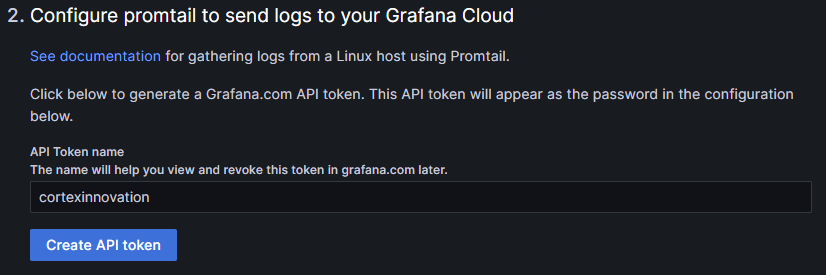
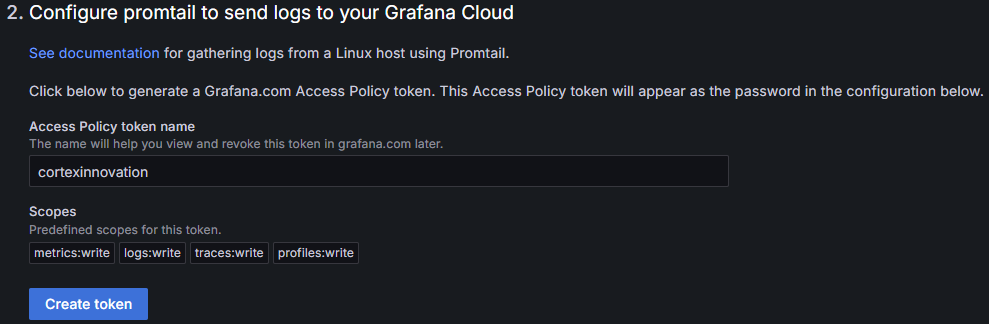
Modified Observability instructions to reflect upgraded components

diff --git a/content/en/docs/2024.5/getting-started/on-premise/add-observability-to-innovation/Grafana/setup-grafana.md b/content/en/docs/2024.5/getting-started/on-premise/add-observability-to-innovation/Grafana/setup-grafana.md
@@ -14,19 +14,19 @@ Please ensure that the Installations for [Grafana][] and [Loki][] have been comp
 ## Configure Loki Data Source in Grafana
 
 1. Log in to your configured Grafana instance with a user that has the *admin* role.
-1. In Grafana, go to *Configuration* > *Data Sources* via the cog icon on the left sidebar.
-1. Click the big *Add data source* button.
-1. Choose *Loki* from the list.
+1. In Grafana, go to *Connections* > *Data Sources* via the menu on the left sidebar.
+1. Click the *+ Add new data source* button.
+1. Choose *Loki* from the *Logging & document databases* section of the list.
 1. Configure the data source as follows:
 
     | Option  | Description | Value |
     |---------|-------------|---------|
     | Name    | The name of the data source to use in Grafana | `Cortex Loki` |
     | URL     | The address of your Grafana Loki Server | `http://localhost:3100` |
-    | Timeout | The HTTP request timeout in seconds set to the same value as configured in the Grafana Loki `loki-local-config.yaml` configuration file located alongside the Grafana Loki `loki-windows-amd64.exe` file. | `600` |
+    | Timeout | The HTTP request timeout in seconds set to the same value as configured in the Grafana Loki `loki-local-config.yaml` configuration file as `query_timeout` in the `limits_config` configuration section, located alongside the Grafana Loki `loki-windows-amd64.exe` file. | `600` |
 
 1. Click *Save and Test*.
-1. *Data source connected and labels found.* message should be displayed above the *Save and Test*
+1. *Data source successfully connected.* message should be displayed above the *Save and Test*
 
 ## Download the {{% ctx %}} Innovation Default Dashboards
 
@@ -36,18 +36,17 @@ Please ensure that the Installations for [Grafana][] and [Loki][] have been comp
 ## Create Folder for Dashboards
 
 1. Log in to your configured Grafana with a user that has the *Admin* role.
-1. To create a folder, click the + icon in the side menu, and then click *Folder*.
+1. In Grafana, go to *Dashboards* via the menu on the left sidebar.
+1. Click the *New* button and select *New folder* from the drop-down menu.
 1. Enter a folder name, e.g. `Cortex`.
 1. Click *Create*.
 
 ## Import Dashboards
 
 1. Log in to your configured Grafana with a user that has the *Admin* role.
-1. To import a dashboard, click the + icon in the side menu, and then click *Import*.
+1. Go to *Dashboards* via the menu on the left sidebar.
+1. Click the *New* button and select *Import* from the drop-down menu.
 1. Click the *Upload JSON file* button.
-
-    {{% alert type="note" title="Note" %}}This button is broken in the Grafana 8.5.3 version and it may be necessary to use your keyboard's *tab* button until the *Upload JSON file* button is highlighted and press *Enter*.{{% /alert %}}
-
 1. Locate the `Flow Execution Requests.json` file extracted from the downloaded `Grafana.Dashboards.zip`.
 1. Select the file and click *Open*.
 1. Select the folder in Grafana you wish the dashboard to be saved in, e.g. *Cortex*.
@@ -63,15 +62,15 @@ To do this, follow these steps for all default {{% ctx %}} Innovation dashboards
 
 1. Log in to your configured Grafana with a user that has the *Admin* role.
 1. To open a dashboard:
-    1. Click the Dashboards icon {{< image src="/images/DashboardsIcon.png" title="Dashboards Icon" >}} in the side menu, and then click *Browse*.
+    1. Go to *Dashboards* via the menu on the left sidebar.
     1. Click the folder name that the dashboards were imported to.
     1. Click the *Flow Execution Requests* dashboard to open it.
-1. Open the Dashboard Settings menu via the cog icon in the top right-hand side of the dashboard.
-1. Click *Variables* on the left-hand side of the page.
-1. Click *Custom Filter* at the bottom of the *Variables* list.
-1. Select your configured Loki data source in the *Options* > *Data source* drop-down menu.
-1. Click *Update*.
-1. Click the back button on the top left corner of the page to go back to the dashboard.
+1. Open the *Dashboard settings* menu via the cog icon in the top right-hand side of the dashboard.
+1. Click *Variables* from the top menu of the *Settings* page.
+1. Click *CustomFilter* at the bottom of the *Variables* list.
+1. Select your configured Loki data source in the *Ad-hoc options* > *Data source* drop-down menu.
+1. Click *Apply*.
+1. Click the dashboard name in the breadcrumb at the top left corner of the page to go back to the dashboard.
 1. Click the + icon next to the Custom Filter to confirm that a list of available filter options is visible.
 1. Repeat steps 2 - 9 for the *Platform Health* dashboard.
 

diff --git a/content/en/docs/2024.5/getting-started/cloud/add-observability-to-innovation/Grafana/import-dashboards.md b/content/en/docs/2024.5/getting-started/cloud/add-observability-to-innovation/Grafana/import-dashboards.md
@@ -20,7 +20,7 @@ Please ensure that the set up for [Grafana][] and [Loki][] have been completed b
 
 1. Log in to Grafana Cloud with a user that has the *Admin* role.
 1. Click the Menu icon {{< image src="/images/GrafanaMenuIcon.png" title="Menu icon" >}} to view the available options.
-1. Click the Dashboards menu item {{< image src="/images/Grafana Cloud - Dashboards Link.png" title="Dashboards menu item" >}}.
+1. Click the Dashboards menu item.
 1. Click the *New* dropdown and select *New folder*.
 1. Enter a folder name, e.g. `Cortex`.
 1. Click *Create*.
@@ -29,13 +29,13 @@ Please ensure that the set up for [Grafana][] and [Loki][] have been completed b
 
 1. Log in to Grafana Cloud with a user that has the *Admin* role.
 1. Click the Menu icon {{< image src="/images/GrafanaMenuIcon.png" title="Menu icon" >}} to view the available options.
-1. Click the Dashboards menu item {{< image src="/images/Grafana Cloud - Dashboards Link.png" title="Dashboards menu item" >}}.
+1. Click the Dashboards menu item.
 1. Click the *New* dropdown and select *Import*.
 1. Click on *Upload dashboard JSON file*.
 1. Locate the `Flow Execution Requests.json` file extracted from the downloaded `Grafana.Dashboards.zip`.
 1. Select the file and click *Open*.
 1. Select the folder in Grafana you wish the dashboard to be saved in, e.g. *Cortex*.
-1. Select your [configured] Loki data source from the dropdown menu, e.g. *grafanacloud-cortexinnovation-logs*.
+1. Select your [configured Loki data source] Loki data source from the dropdown menu, e.g. *grafanacloud-cortexinnovation-logs*.
 1. Click *Import*.
 1. Repeat steps 2 - 10 for the `Platform Health.json` file.
 
@@ -48,13 +48,13 @@ To do this, follow these steps for all default {{% ctx %}} Innovation dashboards
 1. Log in to Grafana Cloud with a user that has the *Admin* role.
 1. To open a dashboard:
     1. Click the Menu icon {{< image src="/images/GrafanaMenuIcon.png" title="Menu icon" >}} to view the available options.
-    1. Click the Dashboards menu item {{< image src="/images/Grafana Cloud - Dashboards Link.png" title="Dashboards menu item" >}}.
+    1. Click the Dashboards menu item.
     1. Click the folder name that the dashboards were imported to.
     1. Click the first dashboard to open.
-1. Open the Dashboard Settings menu via the cog icon next to the time range filter on the dashboard.
-1. Click *Variables* on the left-hand side of the page.
-1. Click *Custom Filter* in the *Variables* list.
-1. Select your [configured] Loki data source in the *Adhoc Options* > *Data source* drop-down menu, e.g. *grafanacloud-cortexinnovation-logs*.
+1. Open the *Dashboard settings* menu via the cog icon in the top right-hand side of the dashboard.
+1. Click *Variables* from the top menu of the *Settings* page.
+1. Click *CustomFilter* in the *Variables* list.
+1. Select your [configured Loki data source][] in the *Adhoc Options* > *Data source* drop-down menu, e.g. *grafanacloud-cortexinnovation-logs*.
 1. Click *Apply*.
 1. Click the dashboard name in the breadcrumb at the top left corner of the page to go back to the dashboard.
 1. Click the + icon next to the Custom Filter to confirm that a list of available filter options is visible. If Grafana Loki has not received any logs from Promtail there will be no options available for selection.
@@ -64,8 +64,8 @@ To do this, follow these steps for all default {{% ctx %}} Innovation dashboards
 
 1. [Try it Out][]
 
-[configured]: {{< url path="Cortex.GettingStarted.Cloud.AddObservabilityToInnovation.Grafana.SetupLoki.MainDoc" >}}
-[Grafana.Dashboards.zip]: {{< url path="GitHub.Cortex.Observability.2.2.0.GrafanaDashboardsZip" >}}
+[configured Loki data source]: {{< url path="Cortex.GettingStarted.Cloud.AddObservabilityToInnovation.Grafana.SetupLoki.MainDoc" >}}
 [Grafana]: {{< url path="Cortex.GettingStarted.Cloud.AddObservabilityToInnovation.Grafana.SetupGrafana.MainDoc" >}}
+[Grafana.Dashboards.zip]: {{< url path="GitHub.Cortex.Observability.2.2.0.GrafanaDashboardsZip" >}}
 [Loki]: {{< url path="Cortex.GettingStarted.Cloud.AddObservabilityToInnovation.Grafana.SetupLoki.MainDoc" >}}
 [Try it Out]: {{< url path="Cortex.GettingStarted.Cloud.AddObservabilityToInnovation.Grafana.TryItOut.MainDoc" >}}

diff --git a/content/en/docs/2024.5/getting-started/on-premise/add-observability-to-innovation/Grafana/prerequisites.md b/content/en/docs/2024.5/getting-started/on-premise/add-observability-to-innovation/Grafana/prerequisites.md
@@ -40,8 +40,8 @@ The application servers (as described in {{< ahref path="Cortex.GettingStarted.O
 
 | Server&nbsp;Role | Windows&nbsp;Server[^1] | IIS[^2] | Other&nbsp;Software |
 |------------------|-------------------------|---------|----------|
-| Web Application Server | [2022 (x64)][] *Recommended*<br>[2019 (x64)][] | 10.0.20348[^3]<br>10.0.17763[^4]<br>IIS Basic Authentication[^5]<br>[URL Rewrite module 2.1][] | [Grafana 8.5.4][] *Enterprise Edition*<br>[Grafana Loki 2.5.0][]|
-| Application Server | [2022 (x64)][] *Recommended*<br>[2019 (x64)][] | | [Promtail 2.5.0][]|
+| Web Application Server | [2022 (x64)][] *Recommended*<br>[2019 (x64)][] | 10.0.20348[^3]<br>10.0.17763[^4]<br>IIS Basic Authentication[^5]<br>[URL Rewrite module 2.1][] | [Grafana 10.4.1][] *Enterprise Edition*<br>[Grafana Loki 3.0.0][]|
+| Application Server | [2022 (x64)][] *Recommended*<br>[2019 (x64)][] | | [Promtail 3.0.0][]|
 
 [^1]: Windows Server Standard and Datacenter editions are supported. Filesystem **must be NTFS** and networking **must use IPv4**. Linux is not supported, but may be in the future.
 [^2]: IIS is supported; other web servers, including IIS Express are not supported.
@@ -158,13 +158,13 @@ A domain user which is a member of the Local Administrators group on all Applica
 [configuring Grafana to use HTTPS]: {{< url path="Cortex.GettingStarted.OnPremise.AddObservabilityToInnovation.Grafana.InstallGrafana.ConfigureHTTPS" >}}
 [Create Self-Signed Certificates]: {{< url path="Cortex.GettingStarted.OnPremise.AddObservabilityToInnovation.Grafana.Advanced.CreateSelfSignedCertificates" >}}
 [Make Installation Artefacts Available]:  {{< url path="Cortex.GettingStarted.OnPremise.InstallInnovationOnly.MultipleServerWithHA.MakeInstallationArtefactsAvailable" >}}
-[Grafana 8.5.4]: {{< url path="Grafana.SelfManaged.Downloads.GrafanaWebApp.Windows" >}}
-[Grafana Loki 2.5.0]: {{< url path="Grafana.SelfManaged.Downloads.GrafanaLoki.GrafanaLokiInstallZip" >}}
+[Grafana 10.4.1]: {{< url path="Grafana.SelfManaged.Downloads.GrafanaWebApp.10.4.1.Windows" >}}
+[Grafana Loki 3.0.0]: {{< url path="Grafana.SelfManaged.Downloads.GrafanaLoki.3.0.0.GrafanaLokiInstallZip" >}}
 [Install Grafana]: {{< url path="Cortex.GettingStarted.OnPremise.AddObservabilityToInnovation.Grafana.InstallGrafana.MainDoc" >}}
 [Install IIS Basic Authentication]: {{< url path="Cortex.GettingStarted.OnPremise.AddObservabilityToInnovation.Grafana.InstallLoki.InstallIISBasicAuthentication" >}}
 [installation]: {{< url path="Cortex.GettingStarted.OnPremise.AddObservabilityToInnovation.Grafana.InstallLoki.InstallCertificate" >}}
 [Let’s Encrypt]: {{< url path="LetsEncrypt.MainDoc" >}}
-[Promtail 2.5.0]:  {{< url path="Grafana.SelfManaged.Downloads.Promtail.PromtailInstallZip" >}}
+[Promtail 3.0.0]:  {{< url path="Grafana.SelfManaged.Downloads.Promtail.3.0.0.PromtailInstallZip" >}}
 [SSL Best Practices]: {{< url path="Cortex.GettingStarted.OnPremise.AddObservabilityToInnovation.Grafana.Advanced.SSLBestPractices" >}}
 [URL Rewrite module 2.1]: {{< url path="IIS.Downloads.UrlRewrite-2_1" >}}
 [Port Requirements]: {{< url path="Cortex.GettingStarted.OnPremise.AddObservabilityToInnovation.Grafana.Advanced.PortRequirements" >}}

diff --git a/content/en/docs/2024.5/getting-started/on-premise/add-observability-to-innovation/Grafana/try-it-out.md b/content/en/docs/2024.5/getting-started/on-premise/add-observability-to-innovation/Grafana/try-it-out.md
@@ -27,14 +27,14 @@ This test uses the test flow published as part of testing the Innovation install
     {{% alert title="Note" %}} If you used self-signed certificates when installing the Application Servers you may need to disable SSL certificate validation in your HTTP client. {{% /alert %}}
 
 1. Once the request has completed, using a web browser, log in to your configured Grafana.
-1. Click the Dashboards icon {{< image src="/images/DashboardsIcon.png" title="Dashboards Icon" >}} in the side menu, and then click *Browse*.
+1. Open the *Dashboards* page via the menu on the left sidebar.
 1. Click the folder name that the dashboards were imported to.
 1. Click the *Flow Execution Requests* dashboard to open it.
 1. The request made at step 1 should be visible on the dashboard.
 {{% alert title="Note" %}}
 If other requests have been made then there may be more than one request visible on the dashboard.
 {{% / alert %}}
-1. Click the Dashboards icon {{< image src="/images/DashboardsIcon.png" title="Dashboards Icon" >}} in the side menu, and then click *Browse*.
+1. Open the *Dashboards* page via the menu on the left sidebar.
 1. Click the folder name that the dashboards were imported to.
 1. Click the *Platform Health* dashboard to open it.
 1. The request made at step 1 should be visible on the dashboard.
@@ -42,6 +42,6 @@ If other requests have been made then there may be more than one request visible
 If other requests have been made then there may be more than one request visible on the dashboard.
 {{% / alert %}}
 
-[Postman]: {{< url path="Postman.Downloads.MainDoc" >}}
 [HA Installation script configuration]: {{< url path="Cortex.GettingStarted.OnPremise.InstallInnovationOnly.MultipleServerWithHA.ConfigureInstallationScript" >}}
 [Non-HA Installation script configuration]: {{< url path="Cortex.GettingStarted.OnPremise.InstallInnovationOnly.SingleServerWithoutHA.ConfigureInstallationScript" >}}
+[Postman]: {{< url path="Postman.Downloads.MainDoc" >}}

diff --git a/content/en/docs/2024.5/Reference/observability/grafana/advanced-setup/configuring-thresholds.md b/content/en/docs/2024.5/Reference/observability/grafana/advanced-setup/configuring-thresholds.md
@@ -13,13 +13,13 @@ This section explains how to change the colour coding of thresholds set for the 
 
 1. Log in to your configured Grafana with a user that has the *Admin* role.
 1. To open a dashboard:
-    1. Click the Dashboards icon {{< image src="/images/DashboardsIcon.png" title="Dashboards Icon" >}} in the side menu, and then click *Browse*.
+    1. Open the *Dashboards* page via the menu on the left sidebar.
     1. Click the folder name that the dashboards were imported to.
     1. Click the name of the dashboard you wish to modify to open it.
 1. Open the panel you wish to configure in edit mode:
     1. Click the title of the panel to display a drop-down menu.
     1. Click *Edit*.
-1. On the Edit Panel page, on the right-hand side, scroll down through the list of options until you reach the Thresholds section.
+1. On the *Edit Panel* page, on the right-hand side, scroll down through the list of options until you reach the Thresholds section.
     1. You can change the value configured for the colours defined if the thresholds should be different to the default set for that panel.  
     1. You can change the colours defined for the thresholds to be different to the default set for that panel.  
     1. You can add additional threshold levels by clicking *+ add threshold* and configuring the colours and numbers appropriately. E.g. on the [Total Requests Errored][] panel on the [Flow Execution Requests][] dashboard, you may wish to add a warning threshold level to be >= 1 errors and change the critical threshold to be >= 10.  For this you should add a threshold and set the colour to your preferred colour, set the value to 1 and change the value for red to be 10.

diff --git a/content/en/docs/2024.5/getting-started/on-premise/add-observability-to-innovation/Grafana/install-promtail/install-promtail.md b/content/en/docs/2024.5/getting-started/on-premise/add-observability-to-innovation/Grafana/install-promtail/install-promtail.md
@@ -11,7 +11,7 @@ This guide describes how to install Promtail on the Application Server(s). Pleas
 
 ## Install Promtail
 
-1. Download [Promtail 2.5.0][] archive.
+1. Download [Promtail 3.0.0][] archive.
 1. Extract content of the downloaded archive to a suitable location, e.g. `C:\Promtail`.
 1. Download the [Promtail Install.zip][] archive and extract its contents alongside the previously extracted Promtail `promtail-windows-amd64.exe`.
 This archive contains the `promtail-local-config.yaml` configuration file, [NSSM][] (the Non-Sucking Service Manager program) and PowerShell scripts to help manage Promtail as a Windows service.
@@ -26,6 +26,6 @@ This archive contains the `promtail-local-config.yaml` configuration file, [NSSM
 [Configure Promtail]: {{< url path="Cortex.GettingStarted.OnPremise.AddObservabilityToInnovation.Grafana.InstallPromtail.ConfigurePromtail" >}}
 [NSSM]: {{< url path="NSSM.MainDoc" >}}
 [Prerequisites]: {{< url path="Cortex.GettingStarted.OnPremise.AddObservabilityToInnovation.Grafana.Prerequisites" >}}
-[Promtail 2.5.0]:  {{< url path="Grafana.SelfManaged.Downloads.Promtail.PromtailInstallZip" >}}
+[Promtail 3.0.0]:  {{< url path="Grafana.SelfManaged.Downloads.Promtail.3.0.0.PromtailInstallZip" >}}
 [Promtail Install.zip]: {{< url path="GitHub.Cortex.Observability.2.2.0.PromtailInstallZip" >}}
 [Software Requirements]: {{< url path="Cortex.GettingStarted.OnPremise.AddObservabilityToInnovation.Grafana.SoftwareRequirements" >}}

diff --git a/content/en/docs/2024.5/getting-started/cloud/add-observability-to-innovation/Grafana/try-it-out.md b/content/en/docs/2024.5/getting-started/cloud/add-observability-to-innovation/Grafana/try-it-out.md
@@ -28,7 +28,7 @@ This test uses the test flow published as part of testing the Innovation install
 
 1. Once the request has completed, using a web browser, log in to your configured Grafana.
 1. Click the Menu icon {{< image src="/images/GrafanaMenuIcon.png" title="Menu icon" >}} to view the available options.
-1. Click the Dashboards menu item {{< image src="/images/Grafana Cloud - Dashboards Link.png" title="Dashboards menu item" >}}.
+1. Click the Dashboards menu item.
 1. Click the folder name that the dashboards were imported to, if not already expanded.
 1. Click the *Flow Execution Requests* dashboard to open it.
 1. The request made at step 1 should be visible on the dashboard.
@@ -36,7 +36,7 @@ This test uses the test flow published as part of testing the Innovation install
 If other requests have been made then there may be more than one request visible on the dashboard.
 {{% / alert %}}
 1. Click the Menu icon {{< image src="/images/GrafanaMenuIcon.png" title="Menu icon" >}} to view the available options.
-1. Click the Dashboards menu item {{< image src="/images/Grafana Cloud - Dashboards Link.png" title="Dashboards menu item" >}}.
+1. Click the Dashboards menu item.
 1. Click the folder name that the dashboards were imported to, if not already expanded.
 1. Click the *Platform Health* dashboard to open it.
 1. The request made at step 1 should be visible on the dashboard.

diff --git a/content/en/docs/2024.5/getting-started/on-premise/add-observability-to-innovation/Grafana/install-loki/install-loki.md b/content/en/docs/2024.5/getting-started/on-premise/add-observability-to-innovation/Grafana/install-loki/install-loki.md
@@ -11,7 +11,7 @@ This guide describes how to install Grafana Loki on the Web Application Server. 
 
 ## Install Grafana Loki
 
-1. Download [Grafana Loki 2.5.0][] archive.
+1. Download [Grafana Loki 3.0.0][] archive.
 1. Extract content of the downloaded archive to a suitable location, e.g. `C:\Loki`.
 1. Download the [Grafana Loki Install.zip][] archive and extract its contents alongside the previously extracted Grafana Loki `loki-windows-amd64.exe`.
 This archive contains the `loki-local-config.yaml` configuration file, [NSSM][] (the Non-Sucking Service Manager program) and PowerShell scripts to help manage Grafana Loki as a Windows service.
@@ -25,7 +25,7 @@ This archive contains the `loki-local-config.yaml` configuration file, [NSSM][] 
 1. [Configure Loki][]
 
 [Configure Loki]: {{< url path="Cortex.GettingStarted.OnPremise.AddObservabilityToInnovation.Grafana.InstallLoki.ConfigureLoki" >}}
-[Grafana Loki 2.5.0]: {{< url path="Grafana.SelfManaged.Downloads.GrafanaLoki.GrafanaLokiInstallZip" >}}
+[Grafana Loki 3.0.0]: {{< url path="Grafana.SelfManaged.Downloads.GrafanaLoki.3.0.0.GrafanaLokiInstallZip" >}}
 [Grafana Loki Install.zip]: {{< url path="GitHub.Cortex.Observability.2.2.0.GrafanaLokiInstallZip" >}}
 [NSSM]: {{< url path="NSSM.MainDoc" >}}
 [Prerequisites]: {{< url path="Cortex.GettingStarted.OnPremise.AddObservabilityToInnovation.Grafana.Prerequisites" >}}

diff --git a/content/en/docs/2024.5/getting-started/cloud/add-observability-to-innovation/Grafana/prerequisites.md b/content/en/docs/2024.5/getting-started/cloud/add-observability-to-innovation/Grafana/prerequisites.md
@@ -21,7 +21,7 @@ The application servers must have internet access in order to communicate with t
 
 | Server Role        | Windows Server[^1]                             | Other Software     |
 |--------------------|------------------------------------------------|--------------------|
-| Application Server | [2022 (x64)][] *Recommended*<br>[2019 (x64)][] | [Promtail 2.5.0][] |
+| Application Server | [2022 (x64)][] *Recommended*<br>[2019 (x64)][] | [Promtail 3.0.0][] |
 
 [^1]: Windows Server Standard and Datacenter editions are supported. Filesystem **must be NTFS** and networking **must use IPv4**. Linux is not supported, but may be in the future.
 
@@ -55,5 +55,5 @@ A domain user which is a member of the Local Administrators group on all Applica
 [2019 (x64)]: {{< url path="Microsoft.Downloads.Windows.Server2019" >}}
 [2022 (x64)]: {{< url path="Microsoft.Downloads.Windows.Server2022" >}}
 [Architecture]: {{< url path="Cortex.GettingStarted.Cloud.AddObservabilityToInnovation.Grafana.Architecture.MainDoc" >}}
+[Promtail 3.0.0]:  {{< url path="Grafana.SelfManaged.Downloads.Promtail.3.0.0.PromtailInstallZip" >}}
 [Set up Grafana]: {{< url path="Cortex.GettingStarted.Cloud.AddObservabilityToInnovation.Grafana.SetupGrafana.MainDoc" >}}
-[Promtail 2.5.0]:  {{< url path="Grafana.SelfManaged.Downloads.Promtail.PromtailInstallZip" >}}

diff --git a/content/en/docs/2024.5/getting-started/cloud/add-observability-to-innovation/Grafana/install-promtail/install-promtail.md b/content/en/docs/2024.5/getting-started/cloud/add-observability-to-innovation/Grafana/install-promtail/install-promtail.md
@@ -11,7 +11,7 @@ This guide describes how to install Promtail on the Application Server(s). Pleas
 
 ## Install Promtail
 
-1. Download [Promtail 2.5.0][] archive.
+1. Download [Promtail 3.0.0][] archive.
 1. Extract content of the downloaded archive to a suitable location, e.g. `C:\Promtail`.
 1. Download the [Promtail Install.zip][] archive and extract its contents alongside the previously extracted Promtail `promtail-windows-amd64.exe`.
 This archive contains the `promtail-local-config.yaml` configuration file, [NSSM][] (the Non-Sucking Service Manager program) and PowerShell scripts to help manage Promtail as a Windows service.
@@ -26,5 +26,5 @@ This archive contains the `promtail-local-config.yaml` configuration file, [NSSM
 [Configure Promtail]: {{< url path="Cortex.GettingStarted.Cloud.AddObservabilityToInnovation.Grafana.InstallPromtail.ConfigurePromtail.MainDoc" >}}
 [NSSM]: {{< url path="NSSM.MainDoc" >}}
 [Prerequisites]: {{< url path="Cortex.GettingStarted.Cloud.AddObservabilityToInnovation.Grafana.Prerequisites.MainDoc" >}}
-[Promtail 2.5.0]:  {{< url path="Grafana.SelfManaged.Downloads.Promtail.PromtailInstallZip" >}}
+[Promtail 3.0.0]:  {{< url path="Grafana.SelfManaged.Downloads.Promtail.3.0.0.PromtailInstallZip" >}}
 [Promtail Install.zip]: {{< url path="GitHub.Cortex.Observability.2.2.0.PromtailInstallZip" >}}

diff --git a/content/en/docs/2024.5/getting-started/cloud/add-observability-to-innovation/Grafana/setup-loki.md b/content/en/docs/2024.5/getting-started/cloud/add-observability-to-innovation/Grafana/setup-loki.md
@@ -12,10 +12,10 @@ This guide describes how to set up Grafana Loki in the cloud. Please ensure that
 ## Set up Grafana Loki
 
 1. Browse to the *Team URL* created during [Sign Up For Grafana Cloud][].
+1. If presented with the *Get started in a few easy steps* page, click *I'm already familiar with Grafana. Skip setup →* in the top right corner.
 1. Click the Menu icon {{< image src="/images/GrafanaMenuIcon.png" title="Menu icon" >}} to view the available options.
-1. Click the Connections menu item {{< image src="/images/GrafanaConnectionsLink.png" title="Connections menu item" >}}.
+1. Click the *Connections* menu item and select *Add new connection*.
 1. In the *Custom data* section click on *Hosted logs*.
-  {{< figure src="/images/Grafana Cloud - Hosted Logs.png" >}}
 1. In the *Choose your use case* section select *Send logs from a standalone host*.
   {{< figure src="/images/Grafana Cloud - Hosted Logs Config Usecase.png" >}}
 1. Enter an *API Token name* in the *Configure promtail to send logs to your Grafana Cloud* section and click the *Create API token* button.  

diff --git a/content/en/docs/2024.5/getting-started/on-premise/add-observability-to-innovation/Grafana/install-grafana/install-grafana.md b/content/en/docs/2024.5/getting-started/on-premise/add-observability-to-innovation/Grafana/install-grafana/install-grafana.md
@@ -11,7 +11,7 @@ This guide describes how to install Grafana on the Web Application Server. Pleas
 
 ## Install Grafana
 
-1. Download the [Grafana 8.5.4][] Windows installer.
+1. Download the [Grafana 10.4.1][] Windows installer.
 1. Run the installer and install Grafana to a suitable location.
 
 ## Next Steps?
@@ -19,6 +19,6 @@ This guide describes how to install Grafana on the Web Application Server. Pleas
 1. [Configure Grafana][]
 
 [Configure Grafana]: {{< url path="Cortex.GettingStarted.OnPremise.AddObservabilityToInnovation.Grafana.InstallGrafana.ConfigureGrafana" >}}
+[Grafana 10.4.1]: {{< url path="Grafana.SelfManaged.Downloads.GrafanaWebApp.10.4.1.Windows" >}}
 [Prerequisites]: {{< url path="Cortex.GettingStarted.OnPremise.AddObservabilityToInnovation.Grafana.Prerequisites" >}}
 [Software Requirements]: {{< url path="Cortex.GettingStarted.OnPremise.AddObservabilityToInnovation.Grafana.SoftwareRequirements" >}}
-[Grafana 8.5.4]: {{< url path="Grafana.SelfManaged.Downloads.GrafanaWebApp.Windows" >}}
